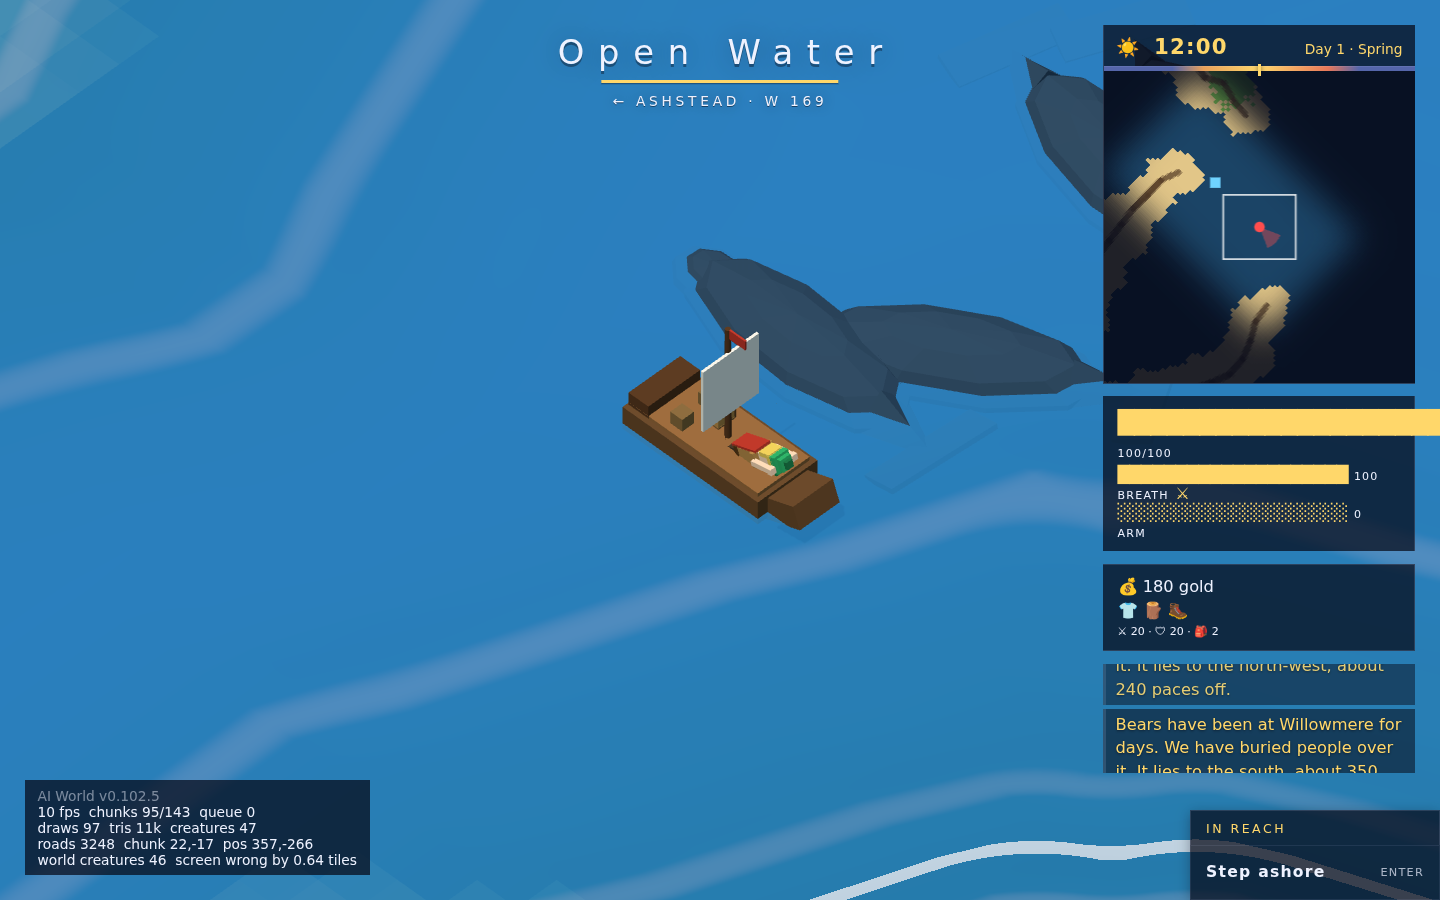
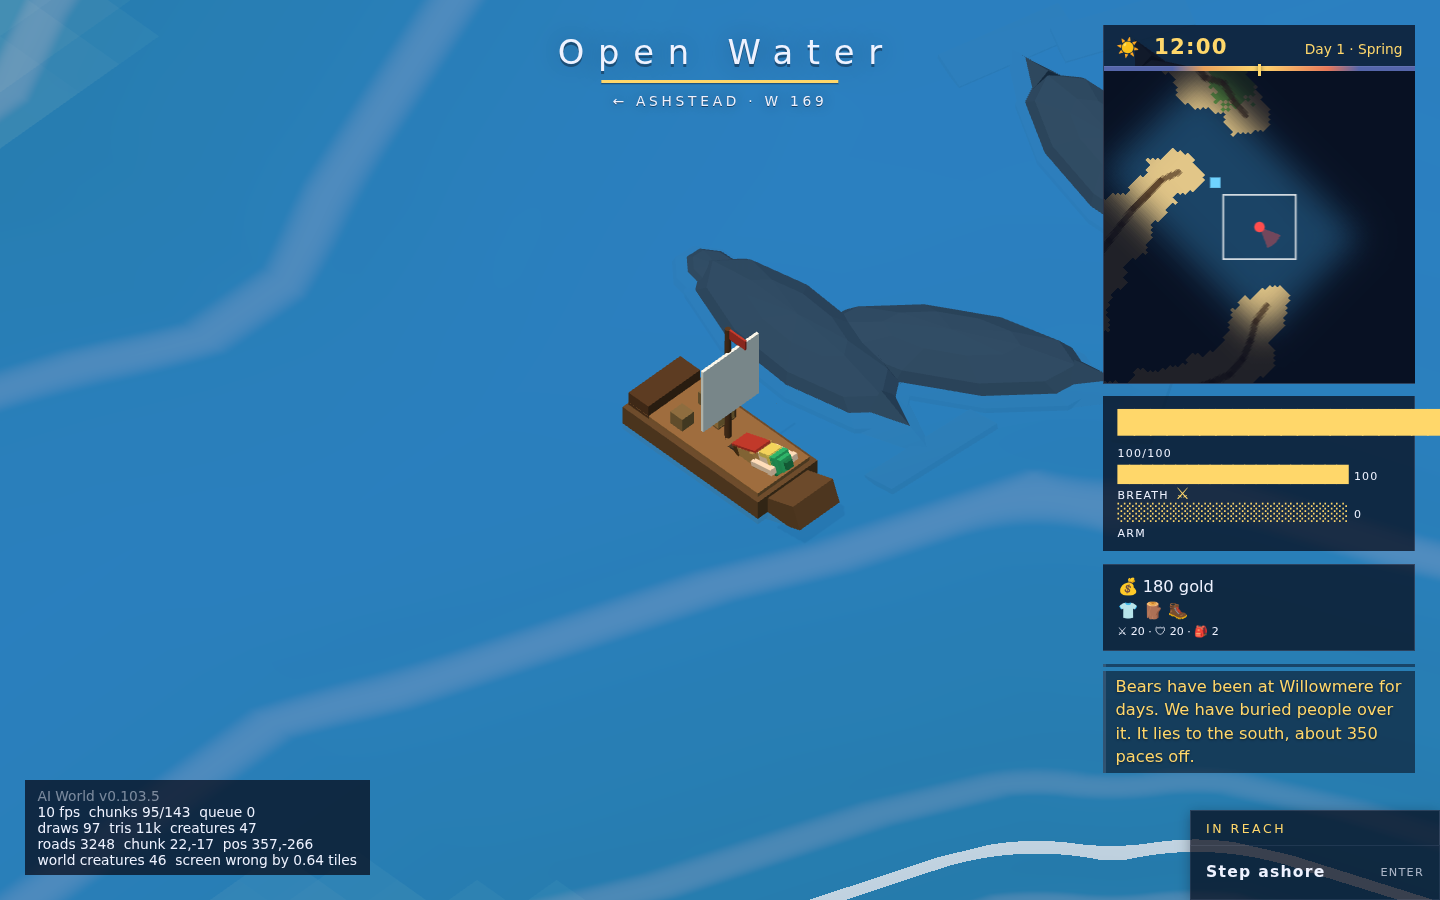
The log follows its newest line unless a reader scrolls it, and sea's reference shows that
Keeping `following` from every scroll event still let the browser's own
scrolls (a box coming back from display:none, a reflow under a late font)
stop the log following: estate's second capture still came up showing its
oldest lines. Only a wheel, a pointer or a touch on the log now counts as
a reader; their scroll decides, and scrollend ends it. Each line is
watched for size as well as the log's box, so a line that grows after it
arrived is followed.

docs/screenshots/sea.png was photographed in the old state, the log half
scrolled; both captures of this change agree on the log at its newest
line, and that capture is the reference now.

Refs #535

Changed region(s): [[0.75, 0.7156, 0.9688, 0.8711]]

diff --git a/src/ui/chat.ts b/src/ui/chat.ts
@@ -27,9 +27,18 @@ export class Chat {
    * still hidden all measure as "at the bottom" of a box with no height, the scroll that should
    * pin them there does nothing, and the log comes up showing its oldest lines. Whether it did
    * depended on when the news arrived against when the HUD appeared, which is why two captures of
-   * the same commit disagreed about the message panel (#535). Only a scroll changes this now.
+   * the same commit disagreed about the message panel (#535).
+   *
+   * And only somebody scrolling changes it. A scroll event alone is not somebody: the browser fires
+   * them for its own reasons too — a box coming back from display:none, a line reflowing under a
+   * late font — and one of those landing short of the bottom stopped the log following as surely
+   * as a reader would have.
    */
   private following = true;
+  /** Whether the scroll now under way is somebody's hand on the log rather than the page's own. */
+  private handled = false;
+  /** Watches the log's box and every line in it, so a line that grows after it arrived is followed. */
+  private readonly sizes = typeof ResizeObserver !== 'undefined' ? new ResizeObserver(() => this.pin()) : null;
 
   /** Called with a finished line when the player presses Enter. */
   onSend: ((text: string) => void) | null = null;
@@ -39,10 +48,16 @@ export class Chat {
     // the pointer leaves the log — and, worse, a page that ever gets the event scrolls the world
     // behind a console somebody is reading.
     this.panel.addEventListener('wheel', (e) => e.stopPropagation());
-    // a box with no layout has no bottom to be at, so it cannot say whether it is being followed
-    this.log.addEventListener('scroll', () => { if (this.log.clientHeight > 0) this.following = this.atBottom; });
-    // and when it gets a layout back, or a font arrives and the lines grow, it goes where it was
-    if (typeof ResizeObserver !== 'undefined') new ResizeObserver(() => this.pin()).observe(this.log);
+    // a wheel, a finger or a drag on the scrollbar is a reader; whatever it leaves is where they
+    // want to be, and the end of the scroll is where to ask
+    for (const hand of ['wheel', 'pointerdown', 'touchstart'] as const) {
+      this.log.addEventListener(hand, () => { this.handled = true; }, { passive: true });
+    }
+    const read = () => { if (this.handled && this.log.clientHeight > 0) this.following = this.atBottom; };
+    this.log.addEventListener('scroll', read);
+    this.log.addEventListener('scrollend', () => { read(); this.handled = false; });
+    // and when the log gets a layout back, a line grows, or a font arrives, it goes where it was
+    this.sizes?.observe(this.log);
     document.fonts?.addEventListener?.('loadingdone', () => this.pin());
     this.input.addEventListener('keydown', (e) => {
       e.stopPropagation();
@@ -143,7 +158,13 @@ export class Chat {
     if (kind === 'sys') el.className = 'sys';
     el.textContent = text;
     this.log.appendChild(el);
-    while (this.log.childElementCount > MAX_LINES) this.log.firstElementChild?.remove();
+    this.sizes?.observe(el);
+    while (this.log.childElementCount > MAX_LINES) {
+      const oldest = this.log.firstElementChild;
+      if (!oldest) break;
+      this.sizes?.unobserve(oldest);
+      oldest.remove();
+    }
     this.show();
     this.pin();
   }
